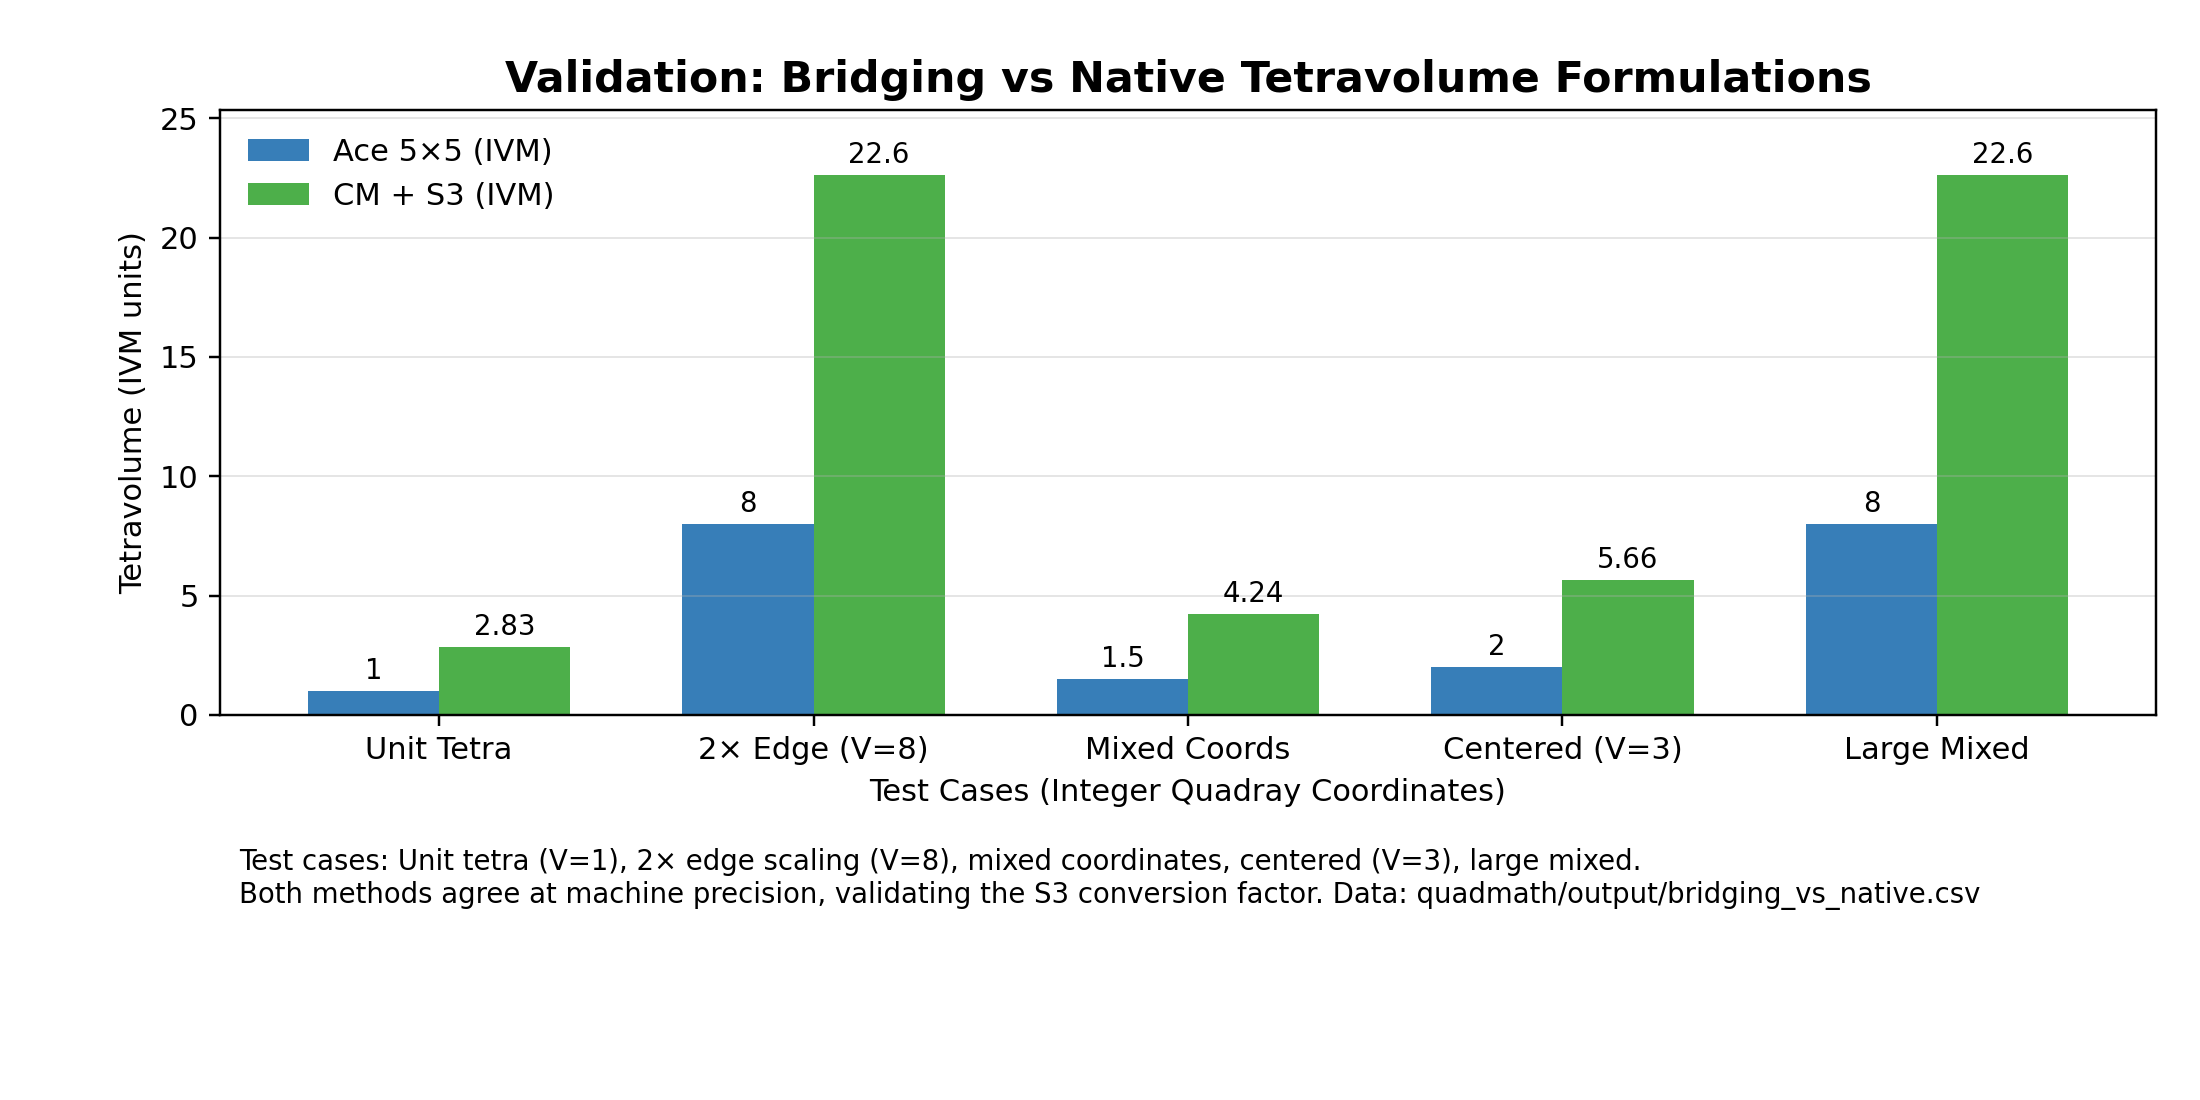
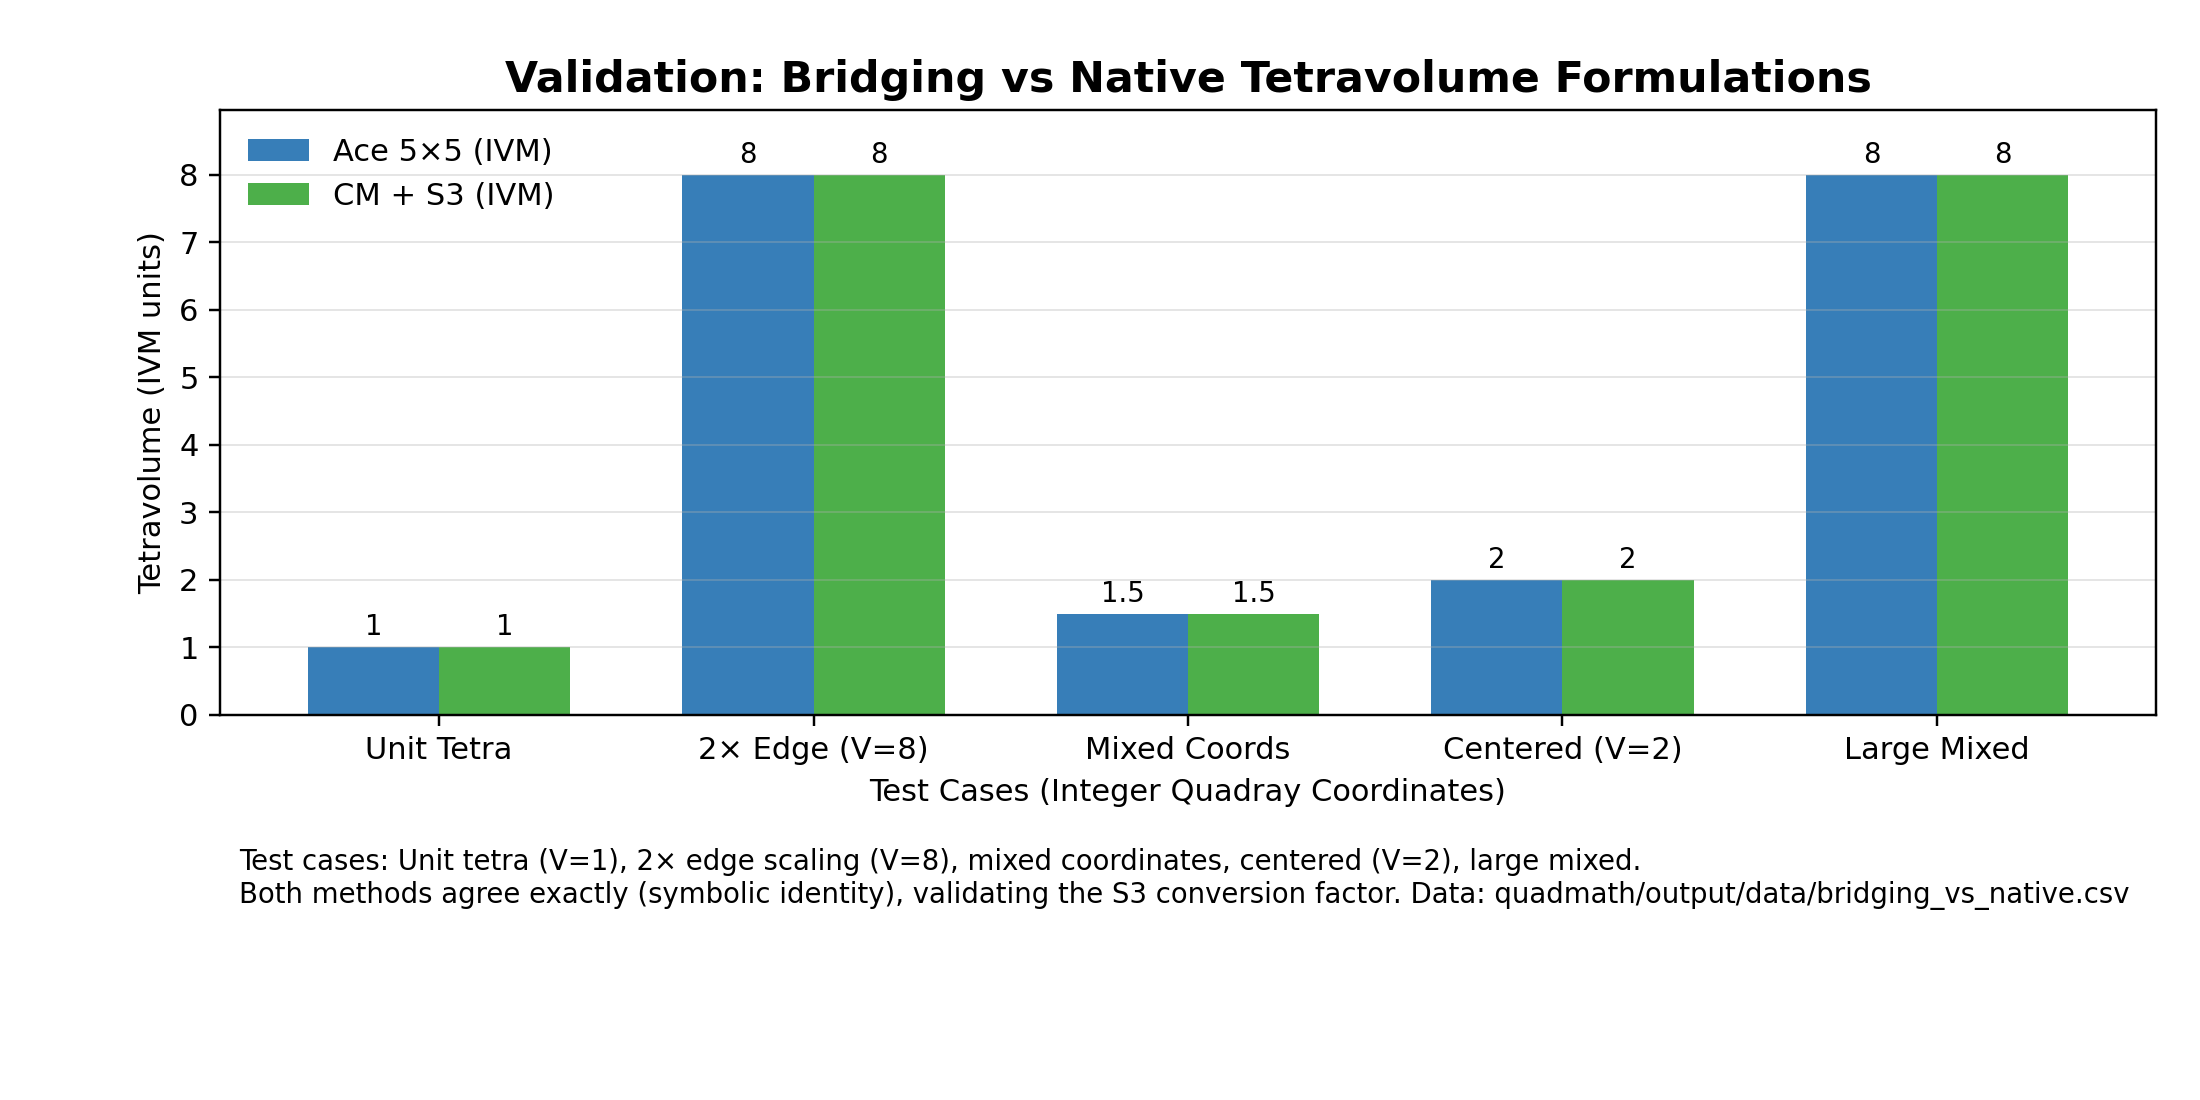
fix: rescale embedding in Ace-vs-CM+S3 bridging comparison; regenerate artifact
The comparison fed DEFAULT_EMBEDDING squared distances (unit tetra edge
2*sqrt(2)) into the Cayley-Menger + S3 conversion, which presumes the
sphere-radius-1 (edge-2) convention documented in src/cayley_menger.py —
every value was exactly 2*sqrt(2) times the Ace 5x5 tetravolume, and the
committed bridging_vs_native.csv showed match=False on all 5 rows while the
figure footnote claimed machine-precision agreement.

Fix: halve the squared-distance matrix before the CM conversion (embedding
scale 1/sqrt(2)); build the embedding matrix with exact Rationals so the
symbolic identity simplifies to zero; hard-fail if any case disagrees;
correct the 'Centered' case label (actual Ace volume 2, not 3) and the
footnote. Regenerated CSV now matches exactly on all rows (1, 8, 3/2, 2, 8);
new contract test locks match=True.

diff --git a/quadmath/scripts/sympy_formalisms.py b/quadmath/scripts/sympy_formalisms.py
@@ -88,7 +88,7 @@ def compare_ace_vs_cm_examples() -> str:
     Returns
     - str: path to generated CSV file
     """
-    from sympy import Matrix, sqrt, simplify, N
+    from sympy import Matrix, sqrt, simplify, N, Rational
     import csv
     import matplotlib.pyplot as plt
 
@@ -97,7 +97,10 @@ def compare_ace_vs_cm_examples() -> str:
     from quadray import Quadray, ace_tetravolume_5x5, DEFAULT_EMBEDDING
     from symbolic import cayley_menger_volume_symbolic, convert_xyz_volume_to_ivm_symbolic
 
-    M = Matrix(DEFAULT_EMBEDDING)
+    # Rational entries: DEFAULT_EMBEDDING holds floats, which would poison
+    # the symbolic CM determinant with float noise and make exact `simplify`
+    # comparisons impossible.
+    M = Matrix(DEFAULT_EMBEDDING).applyfunc(Rational)
     # Deterministic small examples (non-degenerate, simple)
     examples = [
         # unit tetra from origin-like set
@@ -141,11 +144,24 @@ def compare_ace_vs_cm_examples() -> str:
                 else:
                     diff = pts[i] - pts[j]
                     d2[i, j] = simplify(diff.dot(diff))
-        V_xyz = cayley_menger_volume_symbolic(d2)
+        # DEFAULT_EMBEDDING puts the unit IVM tetra edge at 2*sqrt(2); the S3
+        # bridging factor is defined in sphere-radius-1 (edge-2) units. Rescale
+        # squared distances by 1/2 (embedding scale 1/sqrt(2)) before the
+        # Cayley-Menger -> S3 conversion, per the convention note in
+        # src/cayley_menger.py. Without this, every comparison is off by
+        # exactly 2*sqrt(2).
+        V_xyz = cayley_menger_volume_symbolic(d2 / 2)
         V_ivm_sym = simplify(convert_xyz_volume_to_ivm_symbolic(V_xyz))
         cm_vals.append(float(N(V_ivm_sym)))
         match = bool(simplify(V_ivm_sym - V_ace) == 0)
         rows.append((case_names[idx], str(V_ace), str(V_ivm_sym), str(match)))
+
+    if not all(r[3] == "True" for r in rows[1:]):
+        failed = [(r[0], r[1], r[2]) for r in rows[1:] if r[3] != "True"]
+        raise RuntimeError(
+            "Ace 5x5 and CM+S3 disagree (embedding-scale convention broken): "
+            f"{failed}"
+        )
 
     data_dir = _get_data_dir()
     figure_dir = _get_figure_dir()
@@ -166,7 +182,7 @@ def compare_ace_vs_cm_examples() -> str:
         "Unit Tetra",
         "2× Edge (V=8)", 
         "Mixed Coords",
-        "Centered (V=3)",
+        "Centered (V=2)",
         "Large Mixed"
     ]
 
@@ -191,11 +207,9 @@ def compare_ace_vs_cm_examples() -> str:
 
     # Footnote explaining equivalence and data artifact
     ax.text(0.01, -0.22,
-            "Test cases: Unit tetra (V=1), 2× edge scaling (V=8), mixed coordinates, centered (V=3), large mixed.\n"
-            "Both methods agree at machine precision, validating the S3 conversion factor. Data: quadmath/output/bridging_vs_native.csv",
+            "Test cases: Unit tetra (V=1), 2× edge scaling (V=8), mixed coordinates, centered (V=2), large mixed.\n"
+            "Both methods agree exactly (symbolic identity), validating the S3 conversion factor. Data: quadmath/output/data/bridging_vs_native.csv",
             transform=ax.transAxes, ha="left", va="top", fontsize=9)
-
-    # Start y-axis at 0 and add a small headroom
     top = max(max(ace_vals, default=0.0), max(cm_vals, default=0.0))
     ax.set_ylim(0.0, top * 1.12 if top > 0 else 1.0)
 

diff --git a/tests/test_sympy_formalisms.py b/tests/test_sympy_formalisms.py
@@ -38,4 +38,24 @@ def test_sympy_formalisms_manifest(tmp_path, monkeypatch) -> None:
         content = f.read()
     assert "V_xyz_unit_regular_tetra" in content
     assert "V_ivm_unit_regular_tetra" in content
-    assert "magnitude_symbolic" in content
+
+
+def test_ace_and_cm_s3_agree(tmp_path, monkeypatch) -> None:
+    # Contract: the Ace 5x5 tetravolume must equal the Cayley-Menger + S3
+    # conversion on every shared example. The committed
+    # bridging_vs_native.csv previously showed match=False on all rows (S3
+    # applied under the wrong embedding scale); this test locks the fixed
+    # convention in place.
+    import csv
+
+    from sympy_formalisms import compare_ace_vs_cm_examples
+
+    monkeypatch.setattr("sympy_formalisms._get_output_dir", lambda: str(tmp_path))
+    csv_path = compare_ace_vs_cm_examples()
+    with open(csv_path) as f:
+        rows = list(csv.reader(f))
+    assert rows[0] == ["case", "V_ace_ivm_int", "V_cm_s3_ivm_sym", "match"]
+    assert len(rows) == 6
+    for case, ace, cm, match in rows[1:]:
+        assert match == "True", f"{case}: ace={ace} cm_s3={cm}"
+        assert ace == cm
